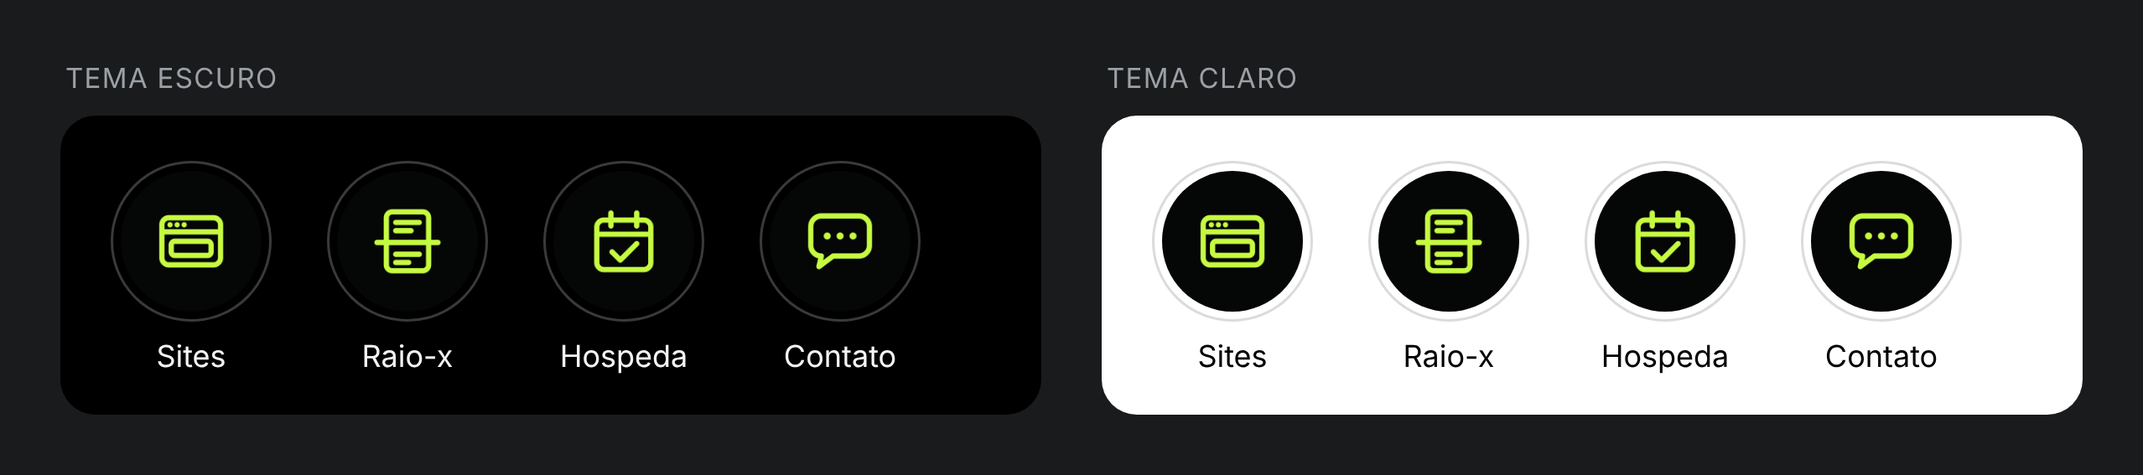
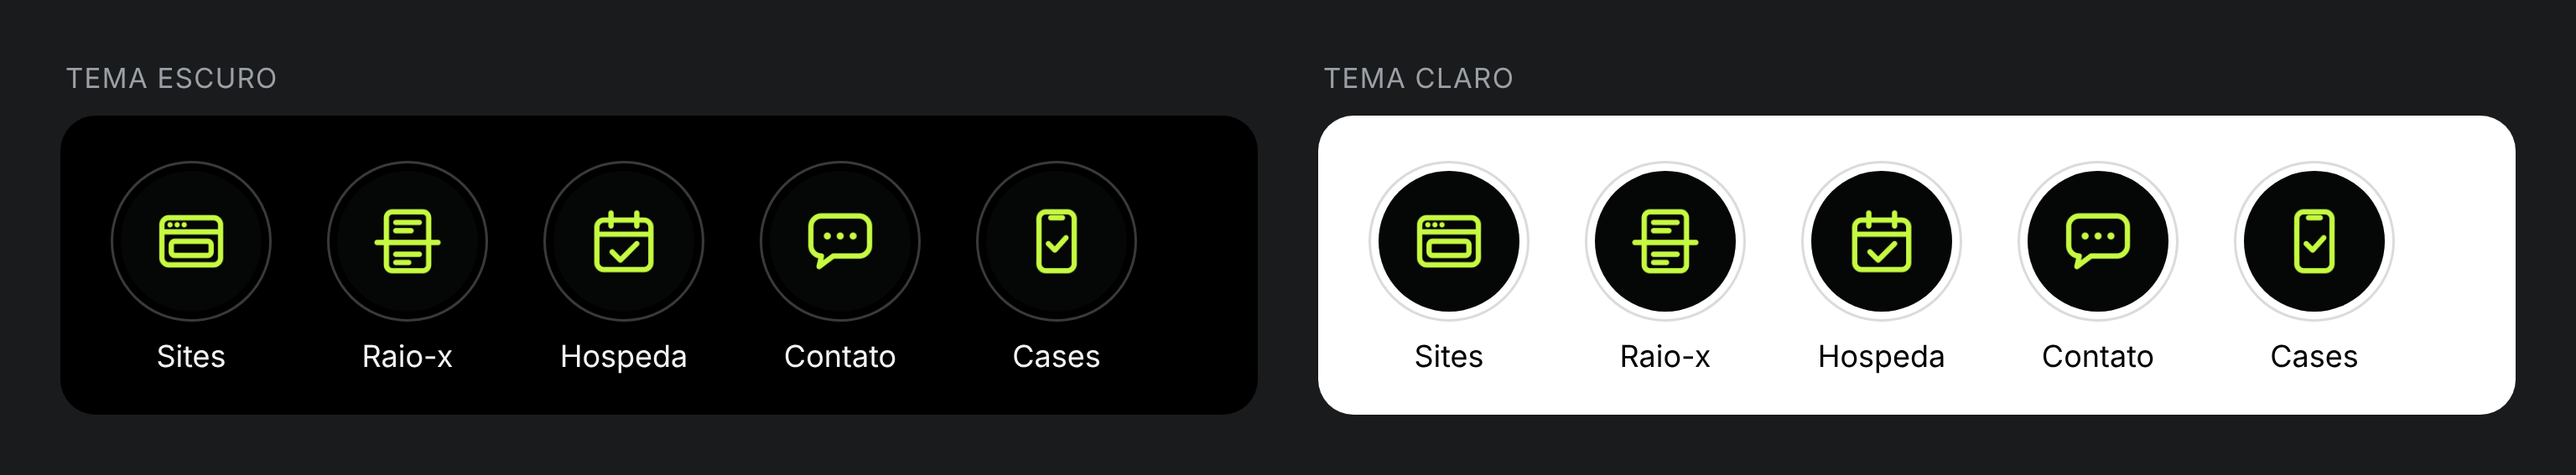
Stories dos destaques (Raio-x, Cases, Hospeda, Contato) e a capa nova "Cases"
Claude-Session: https://claude.ai/code/session_016SrUqcRstJhcFcnU2LrZ3G

diff --git a/tools/stories_destaques_previa.py b/tools/stories_destaques_previa.py
@@ -1,0 +1,29 @@
+#!/usr/bin/env python3
+"""Folha com todos os stories dos destaques lado a lado (uma linha por destaque):
+    python3 tools/stories_destaques_previa.py  ->  stories/destaques/previa.jpg"""
+import glob
+import os
+
+from PIL import Image, ImageDraw, ImageFont
+
+ROOT = os.path.dirname(os.path.dirname(os.path.abspath(__file__)))
+D = os.path.join(ROOT, 'stories', 'destaques')
+ORDEM = ['raio-x', 'cases', 'hospeda', 'contato']
+TW, TH, PAD, LAB = 360, 640, 24, 60
+F = ImageFont.truetype(os.path.join(ROOT, 'brand', 'fonts', 'sora-latin-600-normal.woff2'), 26)
+linhas = [(d, sorted(glob.glob(os.path.join(D, d, '[0-9][0-9].png')))) for d in ORDEM]
+cols = max(len(f) for _, f in linhas)
+sheet = Image.new('RGB', (PAD + cols * (TW + PAD), PAD + len(linhas) * (TH + LAB + PAD)), (24, 25, 26))
+dr = ImageDraw.Draw(sheet)
+for r, (d, fs) in enumerate(linhas):
+    y = PAD + r * (TH + LAB + PAD)
+    for c, f in enumerate(fs):
+        x = PAD + c * (TW + PAD)
+        im = Image.open(f).convert('RGB').resize((TW, TH), Image.LANCZOS)
+        g = ImageDraw.Draw(im)
+        for yy in (250 * TH / 1920, 1650 * TH / 1920):          # as faixas da barra do Story e da resposta
+            g.line([(0, yy), (TW, yy)], fill=(70, 74, 78), width=1)
+        sheet.paste(im, (x, y + LAB))
+        dr.text((x, y + 16), f'{d} · {os.path.basename(f)}', font=F, fill=(198, 250, 65))
+sheet.save(os.path.join(D, 'previa.jpg'), quality=88)
+print('ok -> stories/destaques/previa.jpg')

diff --git a/stories/destaques/README.md b/stories/destaques/README.md
@@ -1,0 +1,27 @@
+# FAZLO Digital — Stories dos destaques
+
+Stories estáticos (1080×1920) para os destaques do perfil da @fazlodigital. As capas dos destaques ficam em [`../../destaques/`](../../destaques).
+
+![prévia](previa.jpg)
+
+| Destaque | Stories |
+|---|---|
+| **Raio-x** | [`01`](raio-x/01.png) "Todo site começa pelo *raio-x*" · [`02`](raio-x/02.png) "O que a gente pede" (logo, fotos de cada quarto, o que está incluso, regras, como chegar, WhatsApp) · [`03`](raio-x/03.png) "Duas perguntas" · [`04`](raio-x/04.png) "Daí nasce o *site*" |
+| **Cases** | [`01`](cases/01.png) Pousada Vale dos Canteiros · [`02`](cases/02.png) Pousada Guardião da Serra (telas reais do topo de cada site, num celular genérico) · [`03`](cases/03.png) "Seu site pode ser o *próximo*" |
+| **Hospeda** | [`01`](hospeda/01.png) "O *FAZLO Hospeda*" · [`02`](hospeda/02.png) "Reservas on-line e *controle de caixa*" (painel genérico, nada de tela real do sistema) · [`03`](hospeda/03.png) "Conheça no *@fazlohospeda*" |
+| **Contato** | [`01`](contato/01.png) "Atendimento só por *mensagem*" · [`02`](contato/02.png) "Como funciona" (3 passos) · [`03`](contato/03.png) "Fale com a gente": área livre de y 900 a 1260 para o sticker de link |
+
+## Regras
+
+- Unbounded (títulos) + Sora (apoio), lima `#C6FA41`, fundo `#050606`, logo FAZLO DIGITAL do kit no topo (y 286).
+- **Faixas livres:** nada em y < 250 (barra do Story) nem em y > 1650 (área de resposta). O script confere e para se algo passar.
+- Título com até 2 linhas (o trecho entre *asteriscos* sai em lima); apoio com até 2 linhas. A fonte diminui até caber na largura, sem quebrar em mais linhas.
+- Ilustrações em traço lima com brilho, no estilo das capas v2 e das capas do Explica. Ícones genéricos e próprios: nenhum logo de WhatsApp, Instagram ou Booking.
+- **Cases:** telas reais já capturadas (Vale: `reels/como-funciona-o-raio-x/src/assets/site/m-00.jpg`; Guardião: `reels/case-guardiao-da-serra/telas/01-topo.png` da branch `claude/fazlo-digital-serie-explica`), copiadas em `src/telas/`. Os dois topos não têm telefone; a captura da Guardião já sai com os telefones desfocados.
+- Nada de números, clientes ou resultados inventados, nem depoimentos.
+
+## Refazer
+
+```bash
+node tools/stories-destaques.cjs && python3 tools/stories_destaques_previa.py
+```

diff --git a/destaques/README.md b/destaques/README.md
@@ -12,6 +12,7 @@ Capas dos destaques do perfil da @fazlodigital. O Instagram usa um Story (1080×
 | **Raio-x** | ficha atravessada por uma linha de scan horizontal, que passa das bordas | [`raio-x.png`](raio-x.png) |
 | **Hospeda** | calendário com um check (ícone FAZLO, não a logo do Hospeda) | [`hospeda.png`](hospeda.png) |
 | **Contato** | balão de conversa genérico com três pontinhos (sem logo de app) | [`contato.png`](contato.png) |
+| **Cases** | celular com um check na tela (os sites feitos pela FAZLO) | [`cases.png`](cases.png) |
 
 ## Regras
 
@@ -27,12 +28,15 @@ Capas dos destaques do perfil da @fazlodigital. O Instagram usa um Story (1080×
   | Raio-x | 340×328 px | 47,2% (a linha de scan passa das bordas) |
   | Hospeda | 304×316 px | 43,9% |
   | Contato | 328×286 px | 45,6% |
+  | Cases | 208×328 px | 45,6% |
 
-- **Nome do destaque:** o Instagram aceita até **15 caracteres** e mostra cerca de 9 a 10 embaixo do círculo. Os 4 nomes (Sites, Raio-x, Hospeda, Contato) aparecem inteiros. O 4º se chamaria "Fale com a FAZLO", mas tem 16 caracteres e virou **"Contato"**.
+- **Nome do destaque:** o Instagram aceita até **15 caracteres** e mostra cerca de 9 a 10 embaixo do círculo. Os 5 nomes (Sites, Raio-x, Hospeda, Contato, Cases) aparecem inteiros. O 4º se chamaria "Fale com a FAZLO", mas tem 16 caracteres e virou **"Contato"**.
+
+Os Stories de cada destaque ficam em [`../stories/destaques/`](../stories/destaques).
 
 ## Prévia e revisão
 
-- [`previa-perfil.png`](previa-perfil.png): os 4 círculos como aparecem no app, com os nomes embaixo, em tema escuro e claro. Usa o anel cinza do Instagram e mostra cada capa com ~64 px, na densidade de um celular (3x). O círculo seguro de 720 px vira a foto de 56 px dentro do anel.
+- [`previa-perfil.png`](previa-perfil.png): os 5 círculos como aparecem no app, com os nomes embaixo, em tema escuro e claro. Usa o anel cinza do Instagram e mostra cada capa com ~64 px, na densidade de um celular (3x). O círculo seguro de 720 px vira a foto de 56 px dentro do anel.
 - [`revisao/capas-com-guias.png`](revisao/capas-com-guias.png): as capas inteiras com o círculo seguro (vermelho) e o diâmetro-alvo do ícone (azul).
 - [`revisao/relatorio.txt`](revisao/relatorio.txt) confere, em cada capa:
   - 1080×1920 e opaca;
